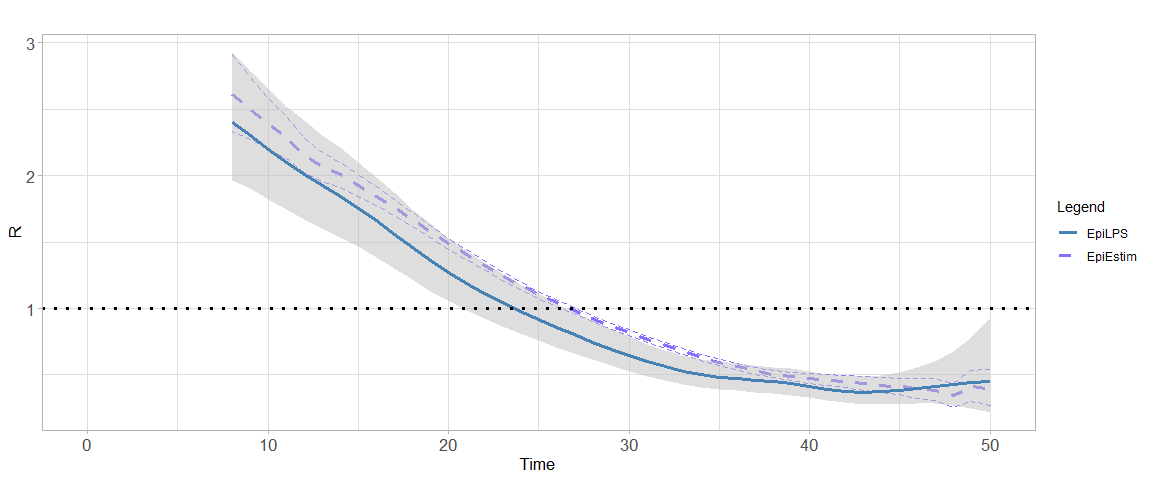
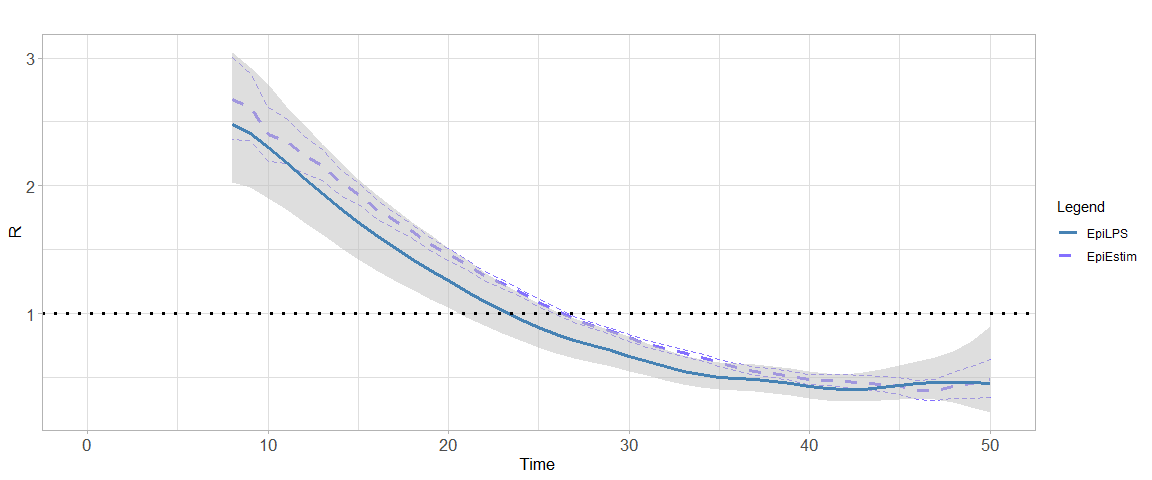
Updated README file

diff --git a/README.md b/README.md
@@ -12,6 +12,8 @@ Oswaldo Gressani
 ![UserStars](https://img.shields.io/github/stars/oswaldogressani/EpiLPS?style=social)
 ![MyTwitter](https://img.shields.io/twitter/follow/OswaldoGressani?style=social)
 
+<img src="man/figures/gplv3-or-later.png" width="10%" style="display: block; margin: auto auto auto 0;" />
+
 ## Aim and scope
 
 EpiLPS <span style="color: blue;"> (Gressani et al. 2021)</span>, is the
@@ -127,10 +129,9 @@ The simulated incidence count data can be accessed by typing:
 simepi$y
 ```
 
-    ##  [1]   16    4   18   22   47   50   68  104  134  178  228  287  363  456  546
-    ## [16]  645  745  815  889  931  996 1000  966  960  888  844  746  654  560  478
-    ## [31]  383  309  239  190  137  118   83   65   50   36   30   12   16    6    9
-    ## [46]    5    4    1    5    1
+    ##  [1]  15   5  11  24  31  43  51  99 119 136 217 259 337 368 503 532 610 716 729
+    ## [20] 816 808 816 839 766 730 646 583 555 465 409 301 287 222 153 125 105  82  60
+    ## [39]  56  31  24  17  13  12   7   9   2   7   2   2
 
 The `epilps()` routine can be used to fit the epidemic data. By default,
 the LPSMAP approach is used with 30 B-splines in the interval \[1; 50\]
@@ -143,9 +144,9 @@ epifit_LPSMAP <- epilps(incidence = simepi$y, serial_interval = si, tictoc = TRU
 
     ## Inference method chosen: LPSMAP. 
     ## Total number of days: 50. 
-    ## Mean R(t) discarding first 7 days: 0.971.
-    ## Mean 95% CI of R(t) discarding first 7 days: (0.789,1.202) 
-    ## Elapsed real time (wall clock time): 0.2 seconds.
+    ## Mean R(t) discarding first 7 days: 0.989.
+    ## Mean 95% CI of R(t) discarding first 7 days: (0.803,1.224) 
+    ## Elapsed real time (wall clock time): 0.15 seconds.
 
 ``` r
 plot(epifit_LPSMAP)
@@ -180,13 +181,13 @@ knitr::kable(epifit_LPSMAP$epifit[8:14,2:4])
 
 |     | R\_estim | R95CI\_low | R95CI\_up |
 |:----|---------:|-----------:|----------:|
-| 8   | 2.398584 |   1.966202 |  2.926049 |
-| 9   | 2.302569 |   1.904284 |  2.784155 |
-| 10  | 2.199451 |   1.819204 |  2.659177 |
-| 11  | 2.098837 |   1.747610 |  2.520652 |
-| 12  | 2.006398 |   1.667633 |  2.413980 |
-| 13  | 1.922616 |   1.605188 |  2.302816 |
-| 14  | 1.840623 |   1.533969 |  2.208581 |
+| 8   | 2.484195 |   2.028427 |  3.042370 |
+| 9   | 2.413019 |   1.988712 |  2.927854 |
+| 10  | 2.302628 |   1.900980 |  2.789139 |
+| 11  | 2.182494 |   1.817222 |  2.621186 |
+| 12  | 2.060743 |   1.713027 |  2.479039 |
+| 13  | 1.938438 |   1.617075 |  2.323667 |
+| 14  | 1.820834 |   1.515821 |  2.187222 |
 
 A smooth estimate of the epidemic curve can be obtained with the code
 below. The option `epicol` controls the color of the curve and
@@ -295,6 +296,25 @@ This is version 1.0.2 (2021-12-29) - “EpiLPS smoothing”.
 
 This project is funded by the European Union’s Research and Innovation
 Action under the H2020 work programme, EpiPose (grant number 101003688).
+
+## License
+
+EpiLPS: a fast and flexible Bayesian tool for near real-time estimation
+of the time-varying reproduction number. Copyright (C) 2021-2022 Oswaldo
+Gressani.
+
+This program is free software: you can redistribute it and/or modify it
+under the terms of the GNU General Public License as published by the
+Free Software Foundation, either version 3 of the License, or (at your
+option) any later version.
+
+This program is distributed in the hope that it will be useful, but
+WITHOUT ANY WARRANTY; without even the implied warranty of
+MERCHANTABILITY or FITNESS FOR A PARTICULAR PURPOSE. See the GNU General
+Public License for more details.
+
+You should have received a copy of the GNU General Public License along
+with this program. If not, see <https://www.gnu.org/licenses/>.
 
 ## References
 
